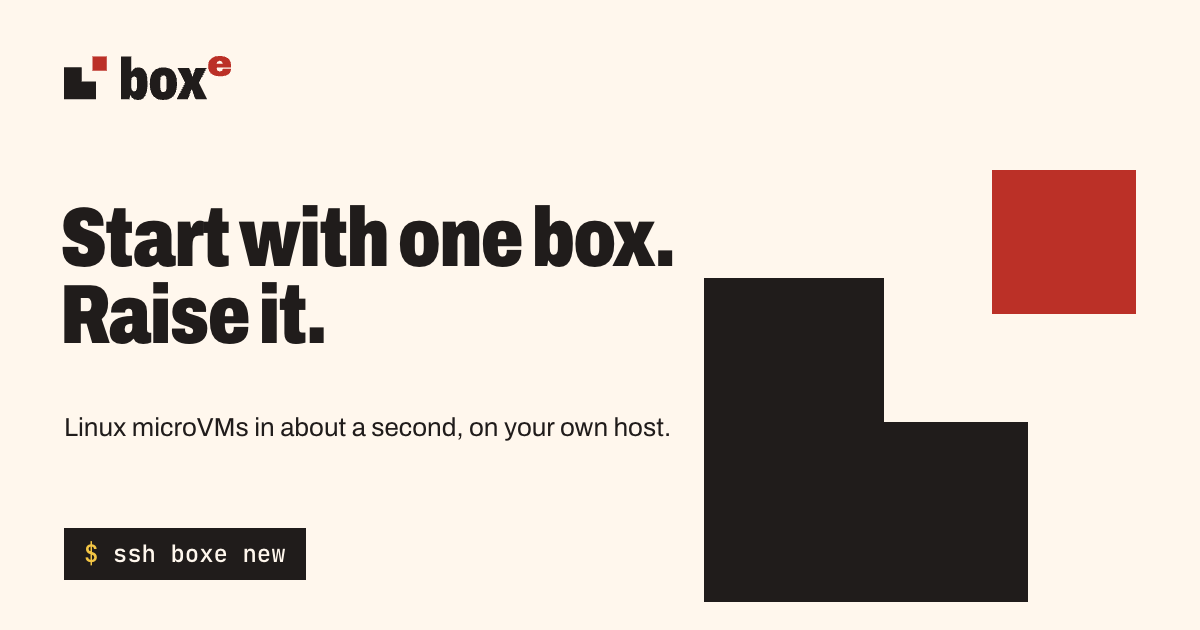
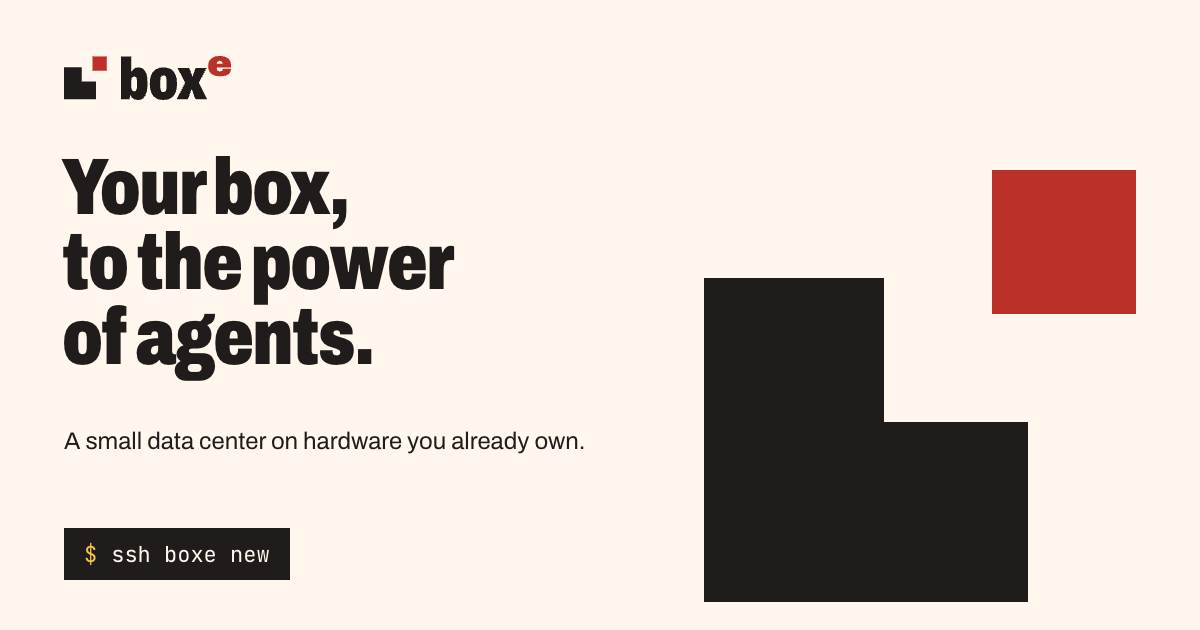
site, README: new headline, Your box, to the power of agents

Changed region(s): [[0.0308, 0.2413, 0.5858, 0.6032], [0.0308, 0.6635, 0.555, 0.7238], [0.0617, 0.8444, 0.2775, 0.9349]]

diff --git a/site/index.html b/site/index.html
@@ -13,12 +13,12 @@
 <meta property="og:type" content="website">
 <meta property="og:site_name" content="boxe">
 <meta property="og:url" content="https://boxe.dev/">
-<meta property="og:title" content="boxe · Start with one box. Raise it.">
-<meta property="og:description" content="Tiny Linux microVMs in about a second, on a host you own. One command over SSH, a full machine with its own HTTPS address.">
+<meta property="og:title" content="boxe · Your box, to the power of agents.">
+<meta property="og:description" content="A small data center on hardware you already own: full Linux microVMs in about a second, with a coding agent in every one.">
 <meta property="og:image" content="https://boxe.dev/assets/og.png">
 <meta property="og:image:width" content="1200">
 <meta property="og:image:height" content="630">
-<meta property="og:image:alt" content="The boxe logo and the line: Start with one box. Raise it.">
+<meta property="og:image:alt" content="The boxe logo and the line: Your box, to the power of agents.">
 <meta name="twitter:card" content="summary_large_image">
 <meta name="twitter:image" content="https://boxe.dev/assets/og.png">
 <link rel="preload" href="fonts/archivo.woff2" as="font" type="font/woff2" crossorigin>
@@ -44,8 +44,8 @@
 
 <section class="hero" id="top" aria-labelledby="hero-title">
   <div class="hero-text">
-    <h1 id="hero-title"><span>Start with one box.</span> <span>Raise it.</span></h1>
-    <p class="hero-lede">Tiny Linux microVMs that start in about a second, on a host you own. Create one over SSH; it gets its own HTTPS address behind your team's login.</p>
+    <h1 id="hero-title"><span>Your box,</span> <span>to the power</span> <span>of agents.</span></h1>
+    <p class="hero-lede">A small data center on hardware you already own: full Linux microVMs that start in about a second, with a coding agent in every one. Create one over SSH; it gets its own HTTPS address behind your team's login.</p>
     <div class="hero-actions">
       <a class="btn" href="#install">Install on your host</a>
       <a class="link" href="https://github.com/16bitsrl/boxe">Read the code on GitHub <span aria-hidden="true">↗</span></a>
@@ -363,7 +363,7 @@ sudo scripts/build-base.sh boxeuntu:20261030 boxeuntu-20261030</code></pre>
   </div>
   <div class="foot-cols">
     <img src="assets/logo-reverse.svg" alt="boxe" width="122" height="32" class="foot-logo">
-    <p class="foot-tag">Start with one box. Raise it.</p>
+    <p class="foot-tag">Your box, to the power of agents.</p>
     <nav aria-label="Footer">
       <a href="https://github.com/16bitsrl/boxe">GitHub</a>
       <a href="https://github.com/16bitsrl/boxe#install">Install guide</a>

diff --git a/README.md b/README.md
@@ -5,11 +5,12 @@
   </picture>
 </h1>
 
-**Start with one box. Raise it.**
+**Your box, to the power of agents.**
 
-Tiny Linux microVMs that start in about a second, on a host you own. Create
-one over SSH; it gets its own HTTPS address behind your team's login. boxe is
-a self-hosted take on [exe.dev](https://exe.dev): one Go daemon (`boxed`) on
+A small data center on hardware you already own: full Linux microVMs that
+start in about a second, with a coding agent in every one. Create one over
+SSH; it gets its own HTTPS address behind your team's login. boxe is a
+self-hosted take on [exe.dev](https://exe.dev): one Go daemon (`boxed`) on
 one Linux host with KVM and ZFS, and a small companion (`boxed -front`) that
 keeps users' connections open while `boxed` restarts.
 
